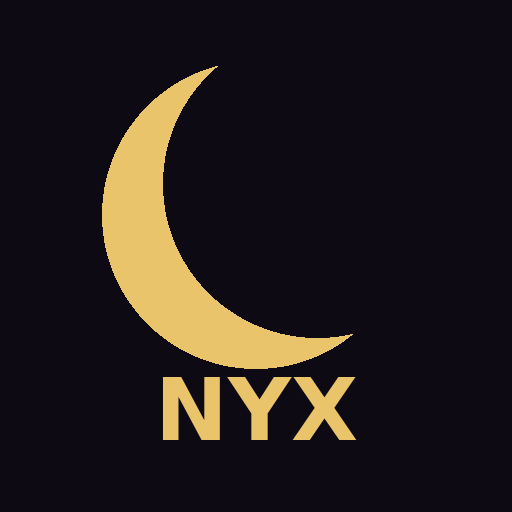
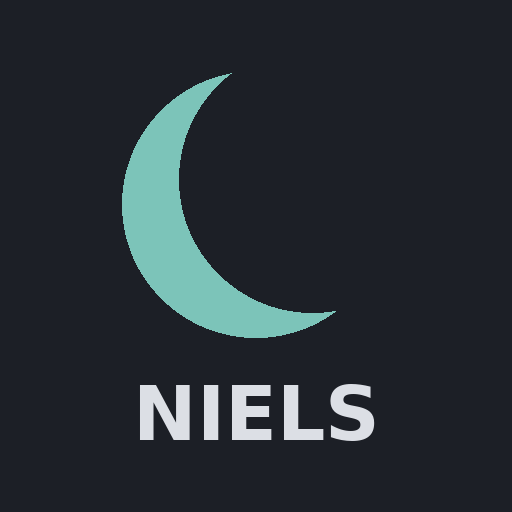
Nyt navn: Niels Bordbog
Claude-Session: https://claude.ai/code/session_01LgUoR2hzbNoFGaXsbHdUEP

Changed region(s): [[0.1875, 0.125, 0.75, 0.875]]

diff --git a/index.html b/index.html
@@ -3,12 +3,12 @@
 <head>
   <meta charset="utf-8">
   <meta name="viewport" content="width=device-width, initial-scale=1, viewport-fit=cover">
-  <title>Nyx Promoter</title>
+  <title>Niels Bordbog</title>
   <meta name="theme-color" content="#1c1f26">
   <meta name="apple-mobile-web-app-capable" content="yes">
   <meta name="mobile-web-app-capable" content="yes">
   <meta name="apple-mobile-web-app-status-bar-style" content="black-translucent">
-  <meta name="apple-mobile-web-app-title" content="Nyx">
+  <meta name="apple-mobile-web-app-title" content="Bordbog">
   <link rel="apple-touch-icon" href="assets/apple-touch-icon.png">
   <link rel="manifest" href="manifest.webmanifest">
   <link rel="icon" href="assets/icon-192.png">
@@ -359,7 +359,7 @@ const store = {
 function showLogin() {
   document.querySelector("nav.tabs").hidden = true;
   view.innerHTML = `<form class="login" id="loginForm">
-    <div class="logo">NYX</div><p class="note">Log ind med samme email og adgangskode som på Goon.</p>
+    <div class="logo">NIELS</div><p style="margin:0;font-weight:700;letter-spacing:.2em;color:var(--muted)">BORDBOG</p><p class="note">Log ind med samme email og adgangskode som på Goon.</p>
     <label class="f">Email<input id="l-email" type="email" autocomplete="email" required></label>
     <label class="f">Adgangskode<input id="l-pass" type="password" autocomplete="current-password" required></label>
     <p class="err" id="l-err"></p><button class="btn teal" type="submit">Log ind</button></form>`;

diff --git a/README.md b/README.md
@@ -1,4 +1,4 @@
-# Nyx Promoter
+# Niels Bordbog
 
 Din egen app som promoter: bordkort fra Nyx, bookinger pr. aften, gæsteliste, statistik over forventet og solgt, fødselsdage, opfølgning og noter.
 Kan lægges på hjemmeskærmen som en app og opdateres live mellem telefon og computer.
